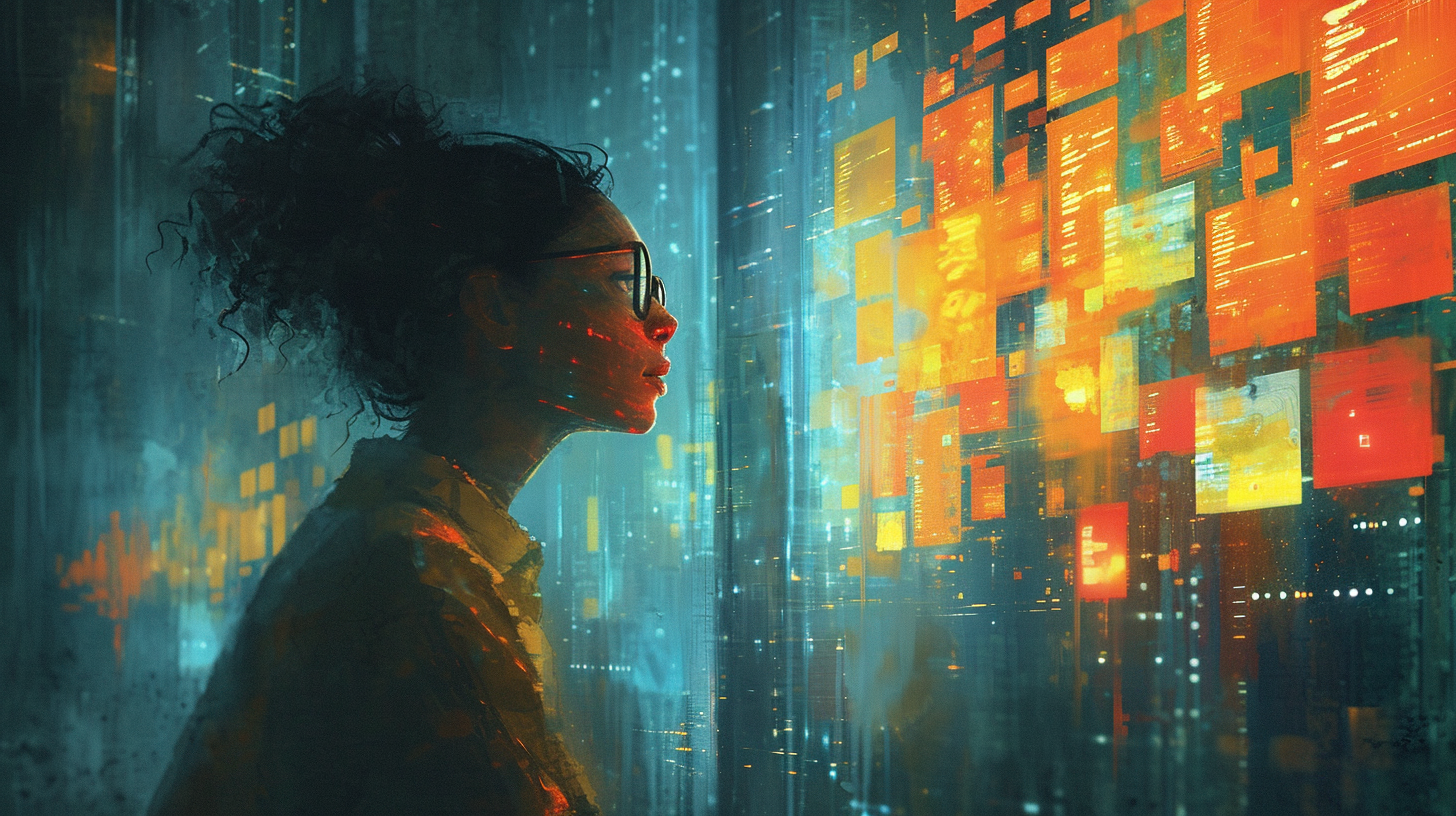
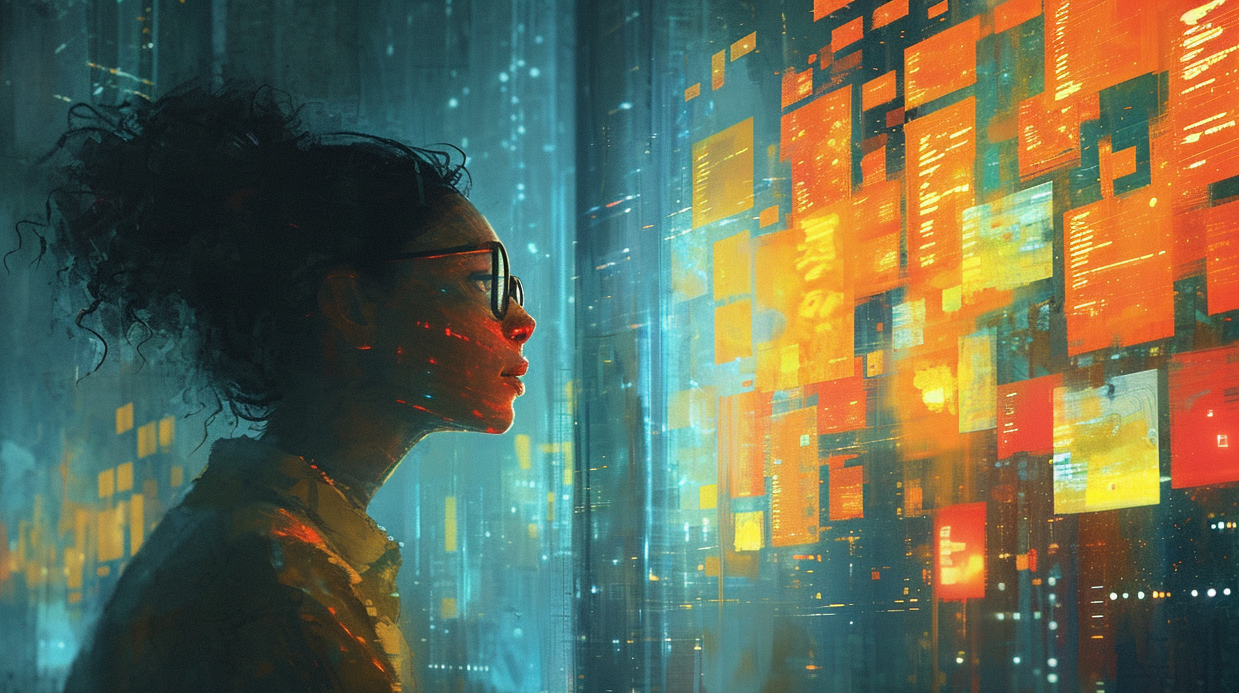
change color & image ar

diff --git a/themes/lotusdocs/assets/scss/_variables.scss b/themes/lotusdocs/assets/scss/_variables.scss
@@ -142,7 +142,7 @@ $yellow:  #f17425;
 $green:   #2eca8b;
 $teal:    #20c997;
 $cyan:    #17a2b8;
-$custom_green:    #0BA272;
+$custom_green:    #009c3f;
 // $custom_green:    #06aa69;
   
 
